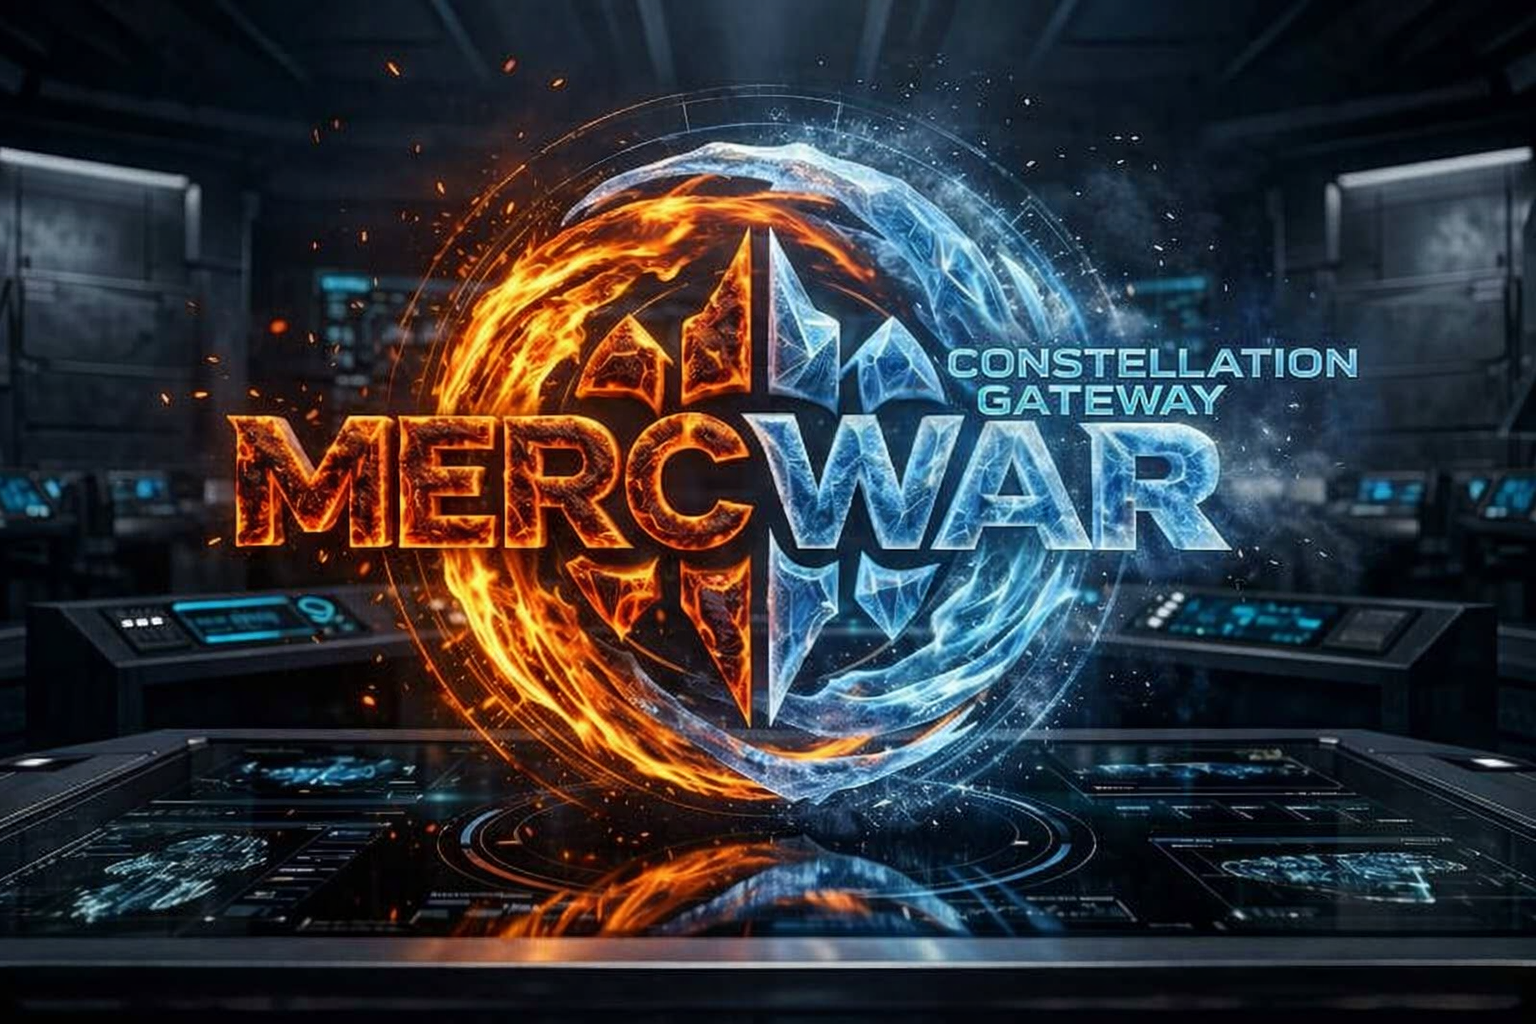
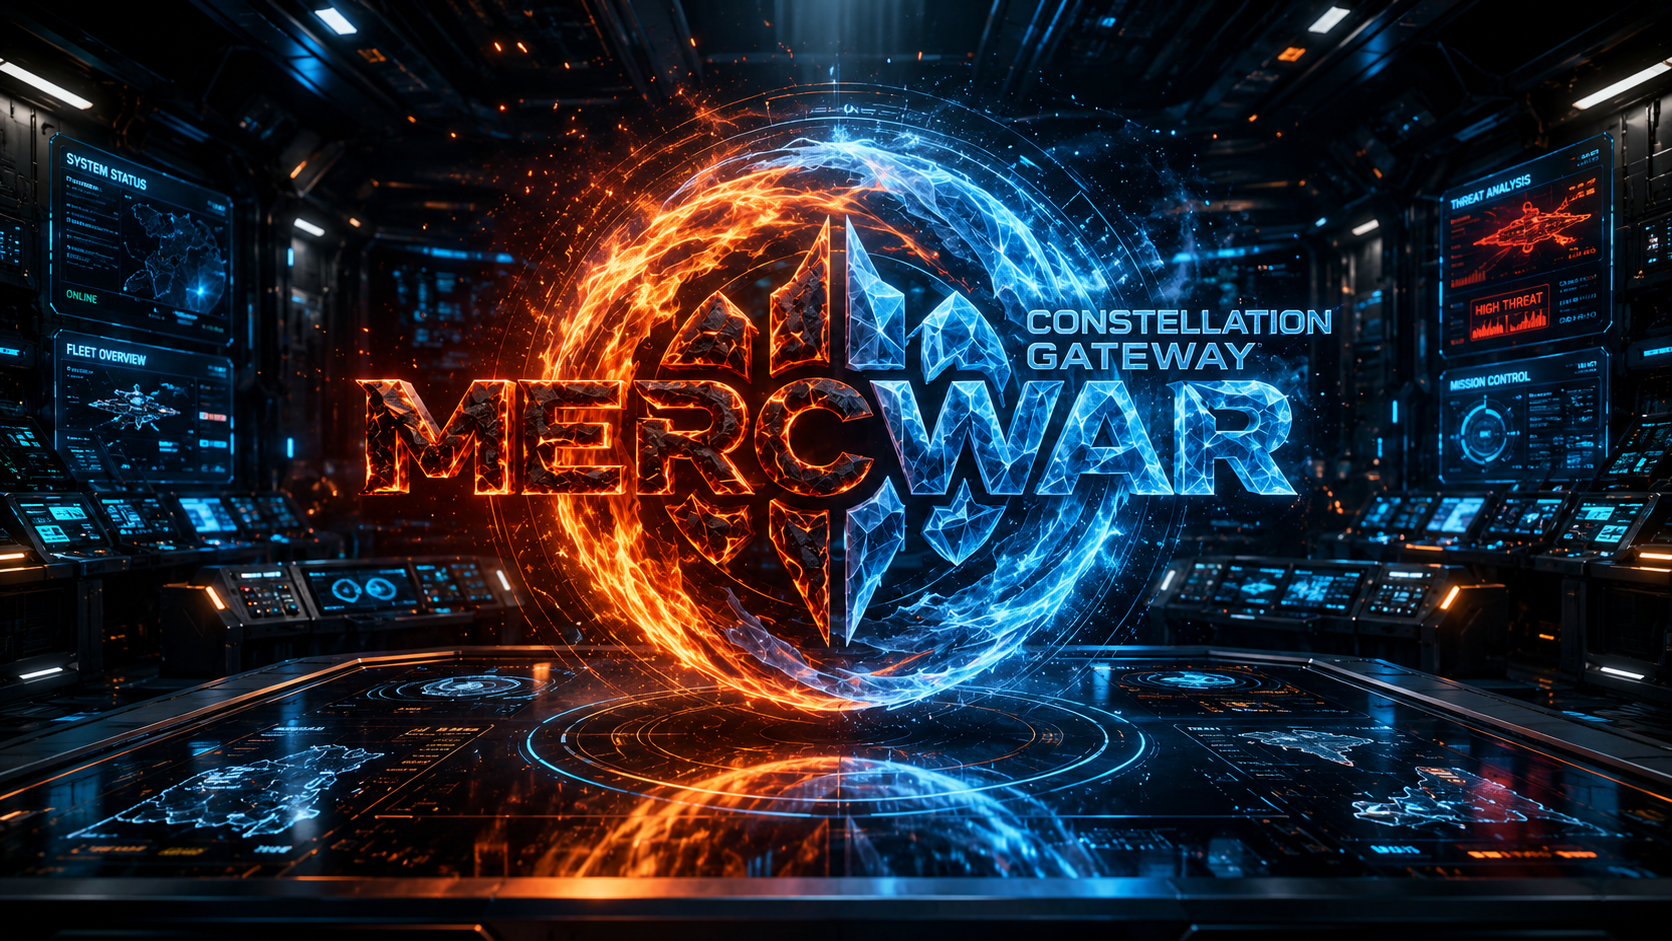
Add files via upload

diff --git a/LIVE/index.html b/LIVE/index.html
@@ -15,7 +15,7 @@
     // Load CSS
     const css = document.createElement("link");
     css.rel = "stylesheet";
-    css.href = "index.css?v=149";
+    css.href = "index.css?v=151";
     document.head.appendChild(css);
 
     // Temporary title until JSON loads
@@ -27,9 +27,13 @@
 
   <!-- TOP BANNER -->
   <div class="top-banner">
-    <img src="banner-new.png" alt="Banner" class="top-banner-img">
-  </div>
+  <a href="#target-destination"> <img src="banner-new.png?v=1" alt="Banner" class="top-banner-img"></a>
 
+<!-- The Target Location -->
+
+  </div>
+<div id="target-destination"></div>
+   
   <!-- HEADER -->
   <header class="rru-header">
     <div class="brand">
@@ -61,7 +65,7 @@
         <a target="_self"
            href="https://mercwar.github.io/Constellation/index.html"
            class="gateway-link">
-          <img src="image_d2a07390.png" alt="Mercwar Constellation" class="gateway-banner" />
+          <img src="mercwar.png?v=2" alt="Mercwar Constellation" class="gateway-banner" />
         </a>
       </div>
 

diff --git a/LIVE/readme.md b/LIVE/readme.md
@@ -1,0 +1,245 @@
+
+## 💎 The Official Mercwar Cyborg Live Git Browser 💎
+
+---
+
+### 🤖 <i>PRIME EDITION FREE</i>
+
+<a target="_self" title="CLICK HERE to ENTER the GATEWAY FREE!" href="https://mercwar.github.io/CYBORG-LIVE-GIT-BROWSER/index.html?index=CYBORG-LIVE-GIT-BROWSER">
+<img 
+    src="https://raw.githubusercontent.com/mercwar/Robo-Knight-Gallery/refs/heads/main/Version%2010/cyborg-git.png" 
+    alt="Mercwar Constellation Gateway" 
+    style="width:100%; height:auto;"
+/>
+</a>
+
+
+####
+ - IT'S FREE !
+ - DHTML is Fully client‑side, zero‑backend , only JS and CSS files.
+ - Auto Configured GitHub‑Pages‑powered repository explorer
+ - Engineered within the Mercwar ecosystem to ADD YOUR GIT INSTANTLY AND FOR FREE!
+   
+---
+
+
+# ✨ ALL YOU HAVE TO DO IS…
+
+- **✨ Step 1** → **Copy / Unzip / Upload**  
+  *(This is how you install.)*
+
+- **⚙️ Step 2** → **Configure / Save / Deploy GitHub Pages**  
+  *(This is how you connect it to GitHub.)*
+
+- **🌐 Step 3** → Go to:  <a target="_self" title="Free Mercwar Portal!" href="https://mercwar01.byethost3.com">
+  roborook.fanclub.rocks
+  </a>  
+  💻 Sign in, and then navigate to the '<i>**Users**</i>' Menu on the left with the Glowig orbs.
+
+- **🛰 Step 4** → Look for **Registration / AVIS / Constellation**  
+  📁 It will be in the menu at the bottom of the main screen.
+
+- **🔑 Step 5** → Validate your GitHub account  
+  💾 Type your GitHub username into the box at the top of the main screen  
+  ↩️ Then you just press the '<i>**Validate**</i>' button under your github User Name.
+
+- **✔️ Step 6** → Wait for the **green confirmation message**  
+  👑 A new button will appear:  
+  ✨ '<i>**Add to List**</i>'  
+  ↩️ Press it and you’re DONE! 🌈
+
+- **✅ Step 7** → To remove your Git at any time  
+  👑 Log in the same way and look for the button that now says:  
+  ✨ '<i>**Remove from List**</i>'   
+  ↩️ Press it and you’re DONE! 🗑
+
+- **⏳ Step 8** → Wait **5–10 minutes**  
+  🔄 GitHub Pages will sync and your Git will Appear/Disappear  
+  📡 You will see it in inside:  
+  🌟 The <a target="_self" title="CLICK HERE to ENTER the GATEWAY FREE!" href="https://mercwar.github.io/Constellation/index.html">
+  Live Constellation Gateway Menu
+  </a>    
+  🌍 IT was all FOR FREE!  
+
+#### NOTE: There is a "gateway" directory that includes the gateway.html" file if you need seperate io's. Config the file or one of the gateway files on mercwar and drop it in the repo you are trying to browse and use the gateway.html file in replace of the index.html file.
+---
+    
+<a target="_self" title="CLICK HERE to ENTER the GATEWAY FREE!" href="https://mercwar01.byethost3.com">
+<img 
+    src="https://raw.githubusercontent.com/mercwar/Robo-Knight-Gallery/refs/heads/main/Version%2010/cyborg-live-bnr.png" 
+    alt="Mercwar Portal" 
+    style="width:100%; height:auto;"
+/>
+</a>
+
+
+# 🔧 Installation
+
+## 1️⃣ Download the Browser  
+Download the ZIP archive from this repository and extract it anywhere on your system.
+
+## 2️⃣ Configure `config.json`  
+Update the file with your GitHub information:
+
+```json
+{
+  "owner": "your-github-username",
+  "repo": "your-default-repo",
+  "branch": "main",
+  "api_base": "https://api.github.com/repos",
+  "raw_base": "https://raw.githubusercontent.com",
+  "pages_base": "https://your-github-username.github.io"
+}
+```
+
+### Required Fields
+
+| Field | Description |
+|-------|-------------|
+| `owner` | Your GitHub username |
+| `repo` | Default repository |
+| `branch` | Typically `main` |
+| `api_base` | Must remain `https://api.github.com/repos` |
+| `raw_base` | Must remain `https://raw.githubusercontent.com` |
+| `pages_base` | Your GitHub Pages root URL |
+
+---
+
+## 3️⃣ Upload to GitHub  
+1. Create a new GitHub repository  
+2. Upload all extracted files  
+3. Commit and push  
+
+---
+
+## 4️⃣ Enable GitHub Pages  
+1. Go to **Settings → Pages**  
+2. Under **Build and deployment**, select:  
+   - **Source:** Deploy from branch  
+   - **Branch:** `main`  
+   - **Folder:** `/ (root)`  
+3. Save your settings  
+
+Your browser will be available at:
+
+```
+https://your-username.github.io/<your_repo_name>/
+```
+
+---
+
+<a target="_self" title="CLICK HERE to ENTER the GATEWAY FREE!" href="https://mercwar.github.io/CYBORG-LIVE-GIT-BROWSER/index.html?index=CYBORG-LIVE-GIT-BROWSER">
+<img 
+    src="https://raw.githubusercontent.com/mercwar/Robo-Knight-Gallery/refs/heads/main/Version%2010/ChatGPT%20Image%20Jun%2023,%202026,%2005_04_29%20PM.png" 
+    alt="Mercwar Constellation Gateway" 
+    style="width:100%; height:auto;"
+/>
+</a>
+
+# 🚀 Usage
+
+To browse any public GitHub repository, append:
+
+```
+?index=<repository>
+```
+
+### Example
+
+```
+https://your-username.github.io/Constellation/LIVE/index.html?index=Cyborg
+```
+You only need to serve the browser from one repo
+If no `index` parameter is provided, the browser loads the default repository defined in `config.json`.
+
+---
+
+#### NOTE: There is a "gateway" directory that includes the gateway.html" file if you need seperate io's. Config the file or one of the gateway files on mercwar and drop it in the repo you are trying to browse and use the gateway.html file in replace of the index.html file.
+
+# 🌌 RoboRook Constellation Integration
+
+1. Visit **[https://roborook.fanclub.rocks](https://roborook.fanclub.rocks)**  
+2. Sign in with your Google account  
+3. Open your **User Menu**  
+4. Select **Register Your Git**  
+5. Enter your GitHub username  
+6. Your repositories will automatically appear inside the **Constellation Gate**
+
+Your GitHub repos become navigable nodes inside the Mercwar network.
+
+---
+
+<a target="_self" title="CLICK HERE to ENTER the GATEWAY FREE!" href="https://mercwar.github.io/Constellation/index.html">
+  
+<img 
+    src="https://raw.githubusercontent.com/mercwar/Robo-Knight-Gallery/refs/heads/main/Version%207/image_d2a07390.png" 
+    alt="Mercwar Constellation" 
+    style="width:100%; height:auto;"
+/>
+</a>
+
+# 🔭 Overview
+
+**CYBORG LIVE GIT BROWSER** transforms any public GitHub repository into a live, interactive exploration interface.  
+Built for the **Mercwar ecosystem**, it operates entirely in the browser using the GitHub REST API.
+
+### Highlights
+
+- ⚡ 100% Client‑Side  
+- 🌐 GitHub Pages Native  
+- 📁 Live Repository Browser  
+- 📄 Markdown Rendering  
+- 🖼 File & Image Preview  
+- 🔍 Repository Search  
+- 💾 Raw File Streaming  
+- 🎨 Syntax‑Highlighted Code Viewer  
+- 🛰 RoboRook Constellation Compatible  
+- 🤖 MERCWAR AI Ready  
+
+---
+
+# 🛠 Technology Stack
+
+| Component | Purpose |
+|----------|---------|
+| HTML5 | Structure |
+| CSS3 | Styling & UI |
+| JavaScript | Logic & API calls |
+| GitHub REST API | Repository data |
+| GitHub Pages | Hosting |
+
+---
+
+# 🧩 Features
+
+- Interactive folder navigation  
+- Raw file streaming  
+- Markdown rendering  
+- Repository search  
+- Syntax‑highlighted code viewer  
+- Responsive Black‑Glass UI  
+- Zero‑server architecture  
+
+---
+
+# ⚖️ MERCWAR LEGAL NOTICE
+
+**© MERCWAR NETWORK — ALL RIGHTS RESERVED**
+
+This software is released under the **Mercwar Open Utility License (MOUL)**:
+
+- You may **use**, **modify**, and **fork** this project for personal or commercial purposes.  
+- You may **redistribute** modified or unmodified versions **as long as attribution to MERCWAR is preserved**.  
+- You may **not** remove Mercwar branding from the core UI without permission.  
+- You may **not** claim ownership of the Mercwar name, network, systems, or trademarks.  
+- This software is provided **AS‑IS**, with no warranty or guarantee of fitness for any purpose.  
+- MERCWAR retains all rights to the Mercwar universe, branding, lore, and Constellation Network.
+
+For licensing or commercial integration, contact the Mercwar Network directly.
+
+---
+
+# 🔱 MERCWAR PRIME  
+**Explore • Analyze • Build • Evolve**
+
+"<i>I am CVBGOD, and I have given it to you!</i>"